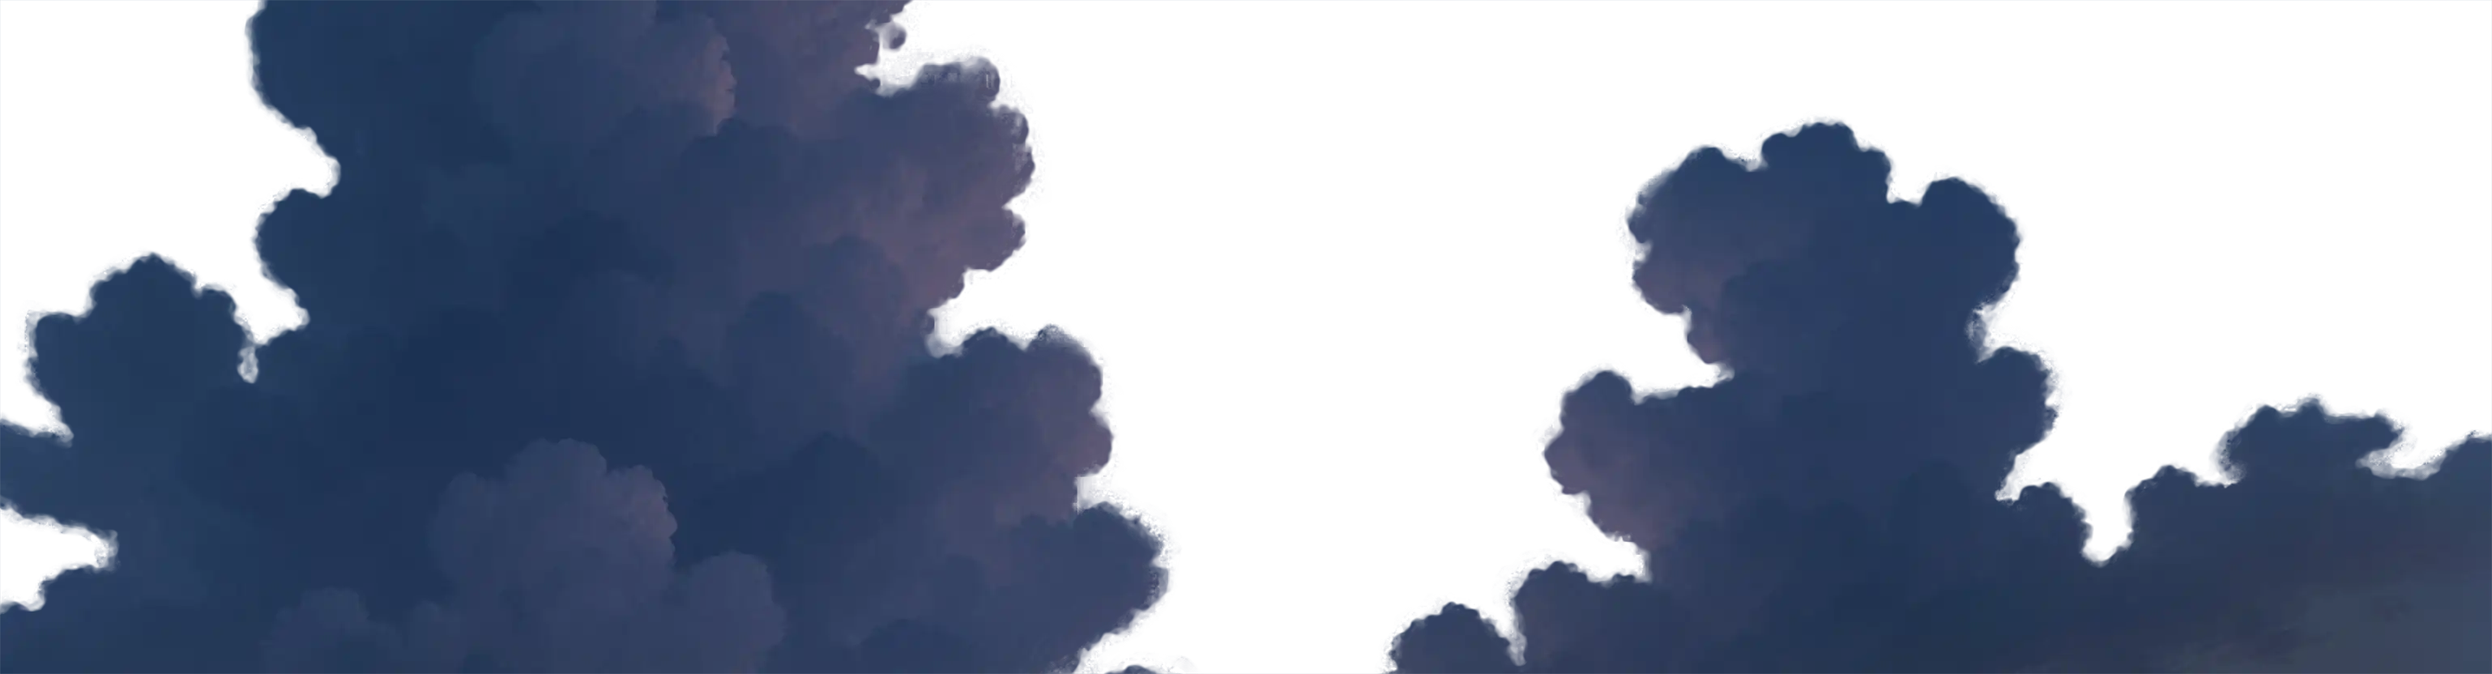
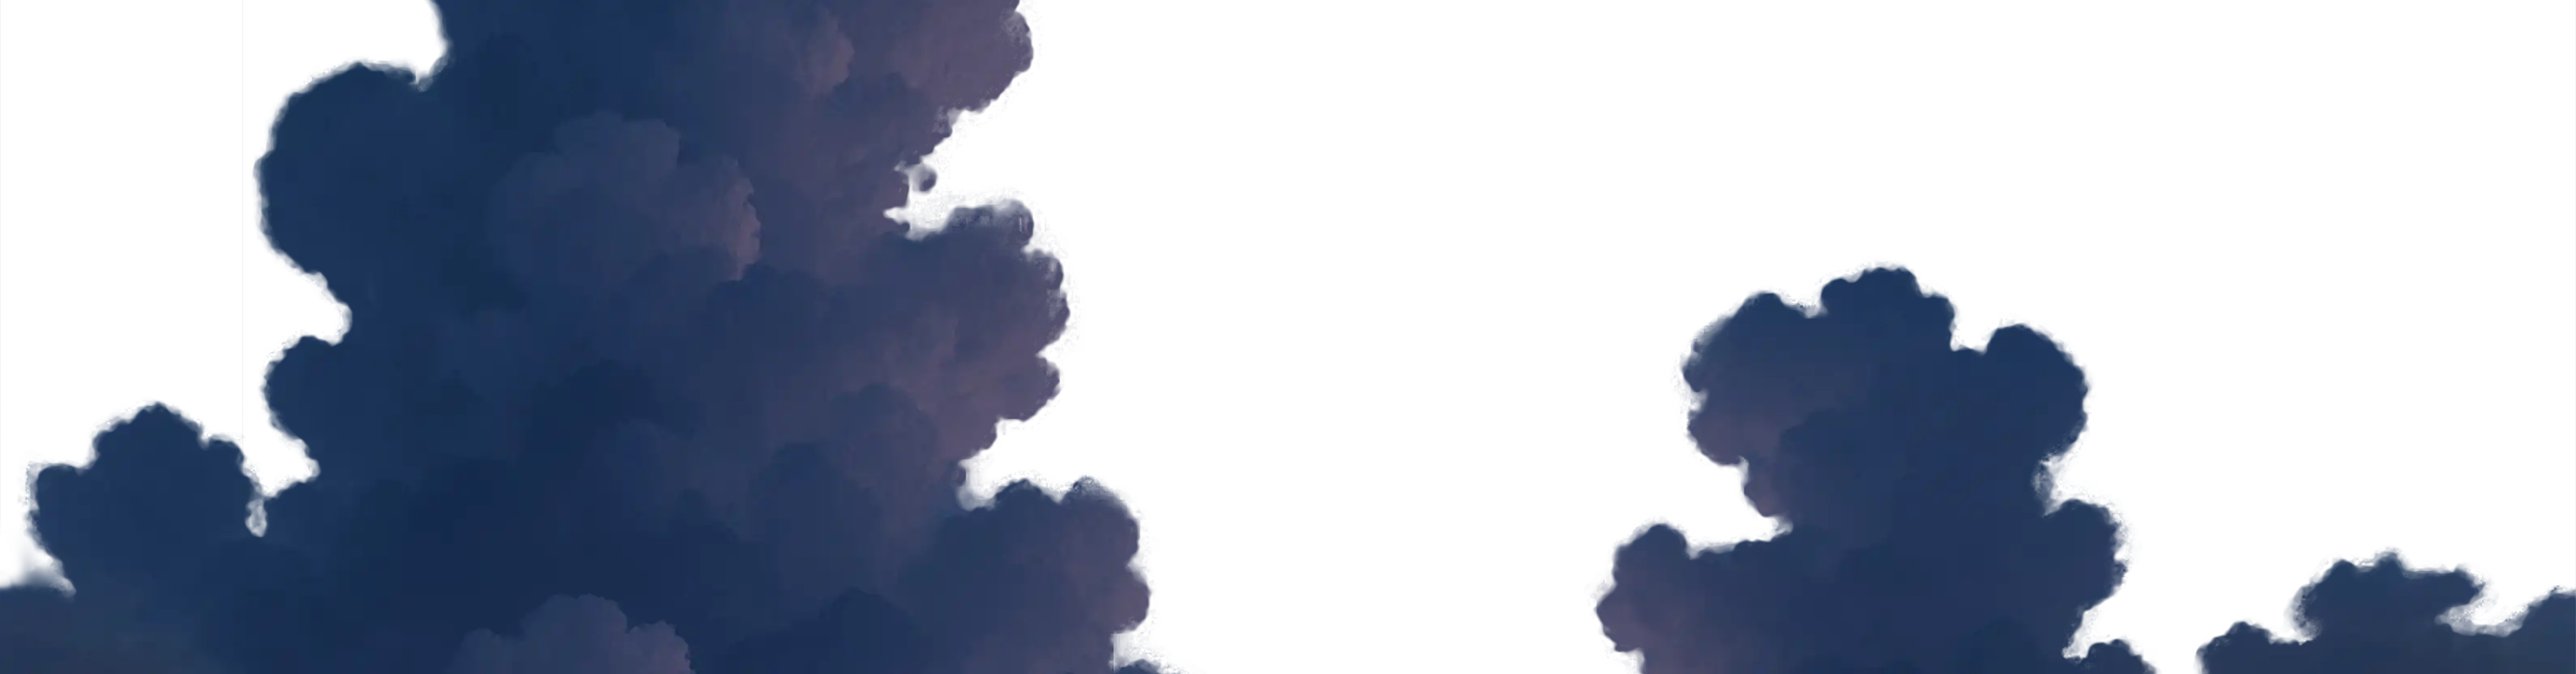
Add stars

diff --git a/src/components/particles/Stars.tsx b/src/components/particles/Stars.tsx
@@ -1,0 +1,162 @@
+"use client";
+
+import { useEffect, useRef } from "react";
+
+const NIGHT_SKY_COLORS = [
+  "#FFFFFF",
+  "#FFDAB9",
+  "#FFE4B5",
+  "#FDFD96",
+  "#F0E68C",
+  "#FFFAF0",
+];
+const SMALL_STAR_SIZES = [0.5, 1, 1.5];
+const MEDIUM_STAR_SIZES = [2, 2.5, 3];
+const LARGE_STAR_SIZES = [3.5, 4, 4.5];
+
+interface StarsProps {
+  number?: number;
+  mediumNumber?: number;
+  largeNumber?: number;
+}
+
+export default function Stars({
+  number = 150,
+  mediumNumber = 60,
+  largeNumber = 20,
+}: StarsProps) {
+  const containerRef = useRef<HTMLDivElement | null>(null);
+
+  useEffect(() => {
+    const container = containerRef.current;
+    if (!container) return;
+
+    const layers = [
+      {
+        sizeArray: SMALL_STAR_SIZES,
+        depth: 0.1,
+        stars: number,
+        className: "background-stars",
+      },
+      {
+        sizeArray: MEDIUM_STAR_SIZES,
+        depth: 0.3,
+        stars: mediumNumber,
+        className: "midground-stars",
+      },
+      {
+        sizeArray: LARGE_STAR_SIZES,
+        depth: 0.6,
+        stars: largeNumber,
+        className: "foreground-stars",
+      },
+    ];
+
+    const createStar = (
+      sizeArray: number[],
+      depth: number,
+      className: string
+    ) => {
+      const star = document.createElement("div");
+      const size = sizeArray[Math.floor(Math.random() * sizeArray.length)];
+      const color =
+        NIGHT_SKY_COLORS[Math.floor(Math.random() * NIGHT_SKY_COLORS.length)];
+      const x = Math.random() * 100;
+      const y = Math.random() * 100;
+
+      Object.assign(star.style, {
+        position: "absolute",
+        width: `${size}px`,
+        height: `${size}px`,
+        top: `${y}vh`,
+        left: `${x}vw`,
+        backgroundColor: color,
+        borderRadius: "50%",
+        boxShadow: `0 0 ${size * 2}px ${size / 2}px ${color}`,
+        "--parallax-depth": depth,
+        opacity: "0.8",
+        willChange: "transform, opacity",
+        animation: `twinkle ${2 + Math.random() * 3}s infinite ease-in-out`,
+      });
+
+      star.classList.add(className);
+      container.appendChild(star);
+    };
+
+    const createShootingStar = () => {
+      const star = document.createElement("div");
+      const isLarge = Math.random() > 0.5;
+      const startX = Math.random() * 100;
+      const startY = Math.random() * 50;
+      const xMove = Math.random() > 0.5 ? "150vw" : "-150vw";
+      const yMove = "100vh";
+
+      const size = isLarge ? "4px" : "2px";
+      const glow = isLarge
+        ? `0 0 20px rgba(255,255,255,0.5), 0 0 30px rgba(255,255,255,1)`
+        : "";
+
+      Object.assign(star.style, {
+        position: "absolute",
+        width: size,
+        height: size,
+        top: `${startY}vh`,
+        left: `${startX}vw`,
+        backgroundColor: "#FFF",
+        borderRadius: "50%",
+        boxShadow: glow,
+        animation: `shoot 2s linear forwards, fadeInOut 2s`,
+        willChange: "transform, opacity",
+      });
+
+      container.appendChild(star);
+      setTimeout(() => star.remove(), 2000);
+    };
+
+    layers.forEach(({ sizeArray, depth, stars, className }) => {
+      Array.from({ length: stars }).forEach(() =>
+        createStar(sizeArray, depth, className)
+      );
+    });
+
+    const shootingStarInterval = setInterval(() => {
+      if (Math.random() > 0.6) createShootingStar();
+    }, 3000);
+
+    return () => {
+      container.innerHTML = "";
+      clearInterval(shootingStarInterval);
+    };
+  }, [number, mediumNumber, largeNumber]);
+
+  useEffect(() => {
+    const handleScroll = () => {
+      const scrollY = window.scrollY;
+
+      const layers = [
+        { className: ".background-stars", depth: 0.1 },
+        { className: ".midground-stars", depth: 0.3 },
+        { className: ".foreground-stars", depth: 0.6 },
+      ];
+
+      layers.forEach(({ className, depth }) => {
+        const stars = document.querySelectorAll(className);
+        stars.forEach((star) => {
+          (star as HTMLElement).style.transform = `translateY(${
+            scrollY * depth
+          }px)`;
+        });
+      });
+    };
+
+    window.addEventListener("scroll", handleScroll);
+    return () => window.removeEventListener("scroll", handleScroll);
+  }, []);
+
+  return (
+    <div
+      ref={containerRef}
+      className="absolute inset-0 overflow-hidden pointer-events-none"
+    />
+  );
+}

diff --git a/src/components/organisms/AppBanner/AppBanner.tsx b/src/components/organisms/AppBanner/AppBanner.tsx
@@ -5,6 +5,7 @@ import { useMemo, useEffect } from "react";
 import { motion, useAnimation } from "framer-motion";
 
 // Components
+import Stars from "@/components/particles/Stars";
 import { PageHeading, BlurIn } from "@/components/atoms/TextAnimation";
 
 // Styles
@@ -14,7 +15,7 @@ const AppBanner = () => {
   const fireflies = useMemo(
     () =>
       Array.from({ length: 25 }, (_, i) => (
-        <span key={i} className="firefly" />
+        <span key={i} className="z-10 firefly" />
       )),
     []
   );
@@ -41,6 +42,16 @@ const AppBanner = () => {
         transition={{ ease: "easeInOut" }}
         className="relative flex sm:flex-row flex-col justify-center sm:justify-between items-center bg-sky mx-auto max-w-[2048px] h-[850px] sm:h-[800px] overflow-hidden"
       >
+        <Stars />
+        <motion.div
+          className="top-0 left-[54%] absolute bg-moon"
+          initial={{ x: -300, y: "55%" }} // Start bottom-left of the anchor
+          animate={{ x: 0, y: 0 }} // Rise diagonally into position
+          transition={{
+            duration: 10,
+          }}
+        />
+
         <motion.div
           animate={controls}
           className="top-0 left-0 z-0 absolute flex w-full h-[832px]"

diff --git a/src/app/globals.css b/src/app/globals.css
@@ -4,10 +4,11 @@
 
 @import "../styles/social";
 @import "../styles/sakura";
+@import "../styles/stars";
 
 .bg-sky {
   background-image: url("/images/clouds-bg.webp");
-  background-size: 100%;
+  background-size: 100% 350px;
   background-position: top;
   background-repeat: no-repeat;
 }
@@ -24,6 +25,15 @@
   background-size: 100%;
   background-position: top;
   background-repeat: no-repeat;
+}
+
+.bg-moon {
+  background-image: url("/images/moon.webp");
+  background-size: contain;
+  background-position: center;
+  background-repeat: no-repeat;
+  width: 320px;
+  height: 320px;
 }
 
 body {

diff --git a/src/styles/stars.css b/src/styles/stars.css
@@ -1,0 +1,30 @@
+@keyframes twinkle {
+  0%,
+  100% {
+    opacity: 0.8;
+  }
+  50% {
+    opacity: 0.4;
+  }
+}
+
+@keyframes shoot {
+  0% {
+    transform: translate(0, 0);
+    opacity: 1;
+  }
+  100% {
+    transform: translate(150vw, 100vh);
+    opacity: 0;
+  }
+}
+
+@keyframes fadeInOut {
+  0%,
+  100% {
+    opacity: 0;
+  }
+  50% {
+    opacity: 1;
+  }
+}
